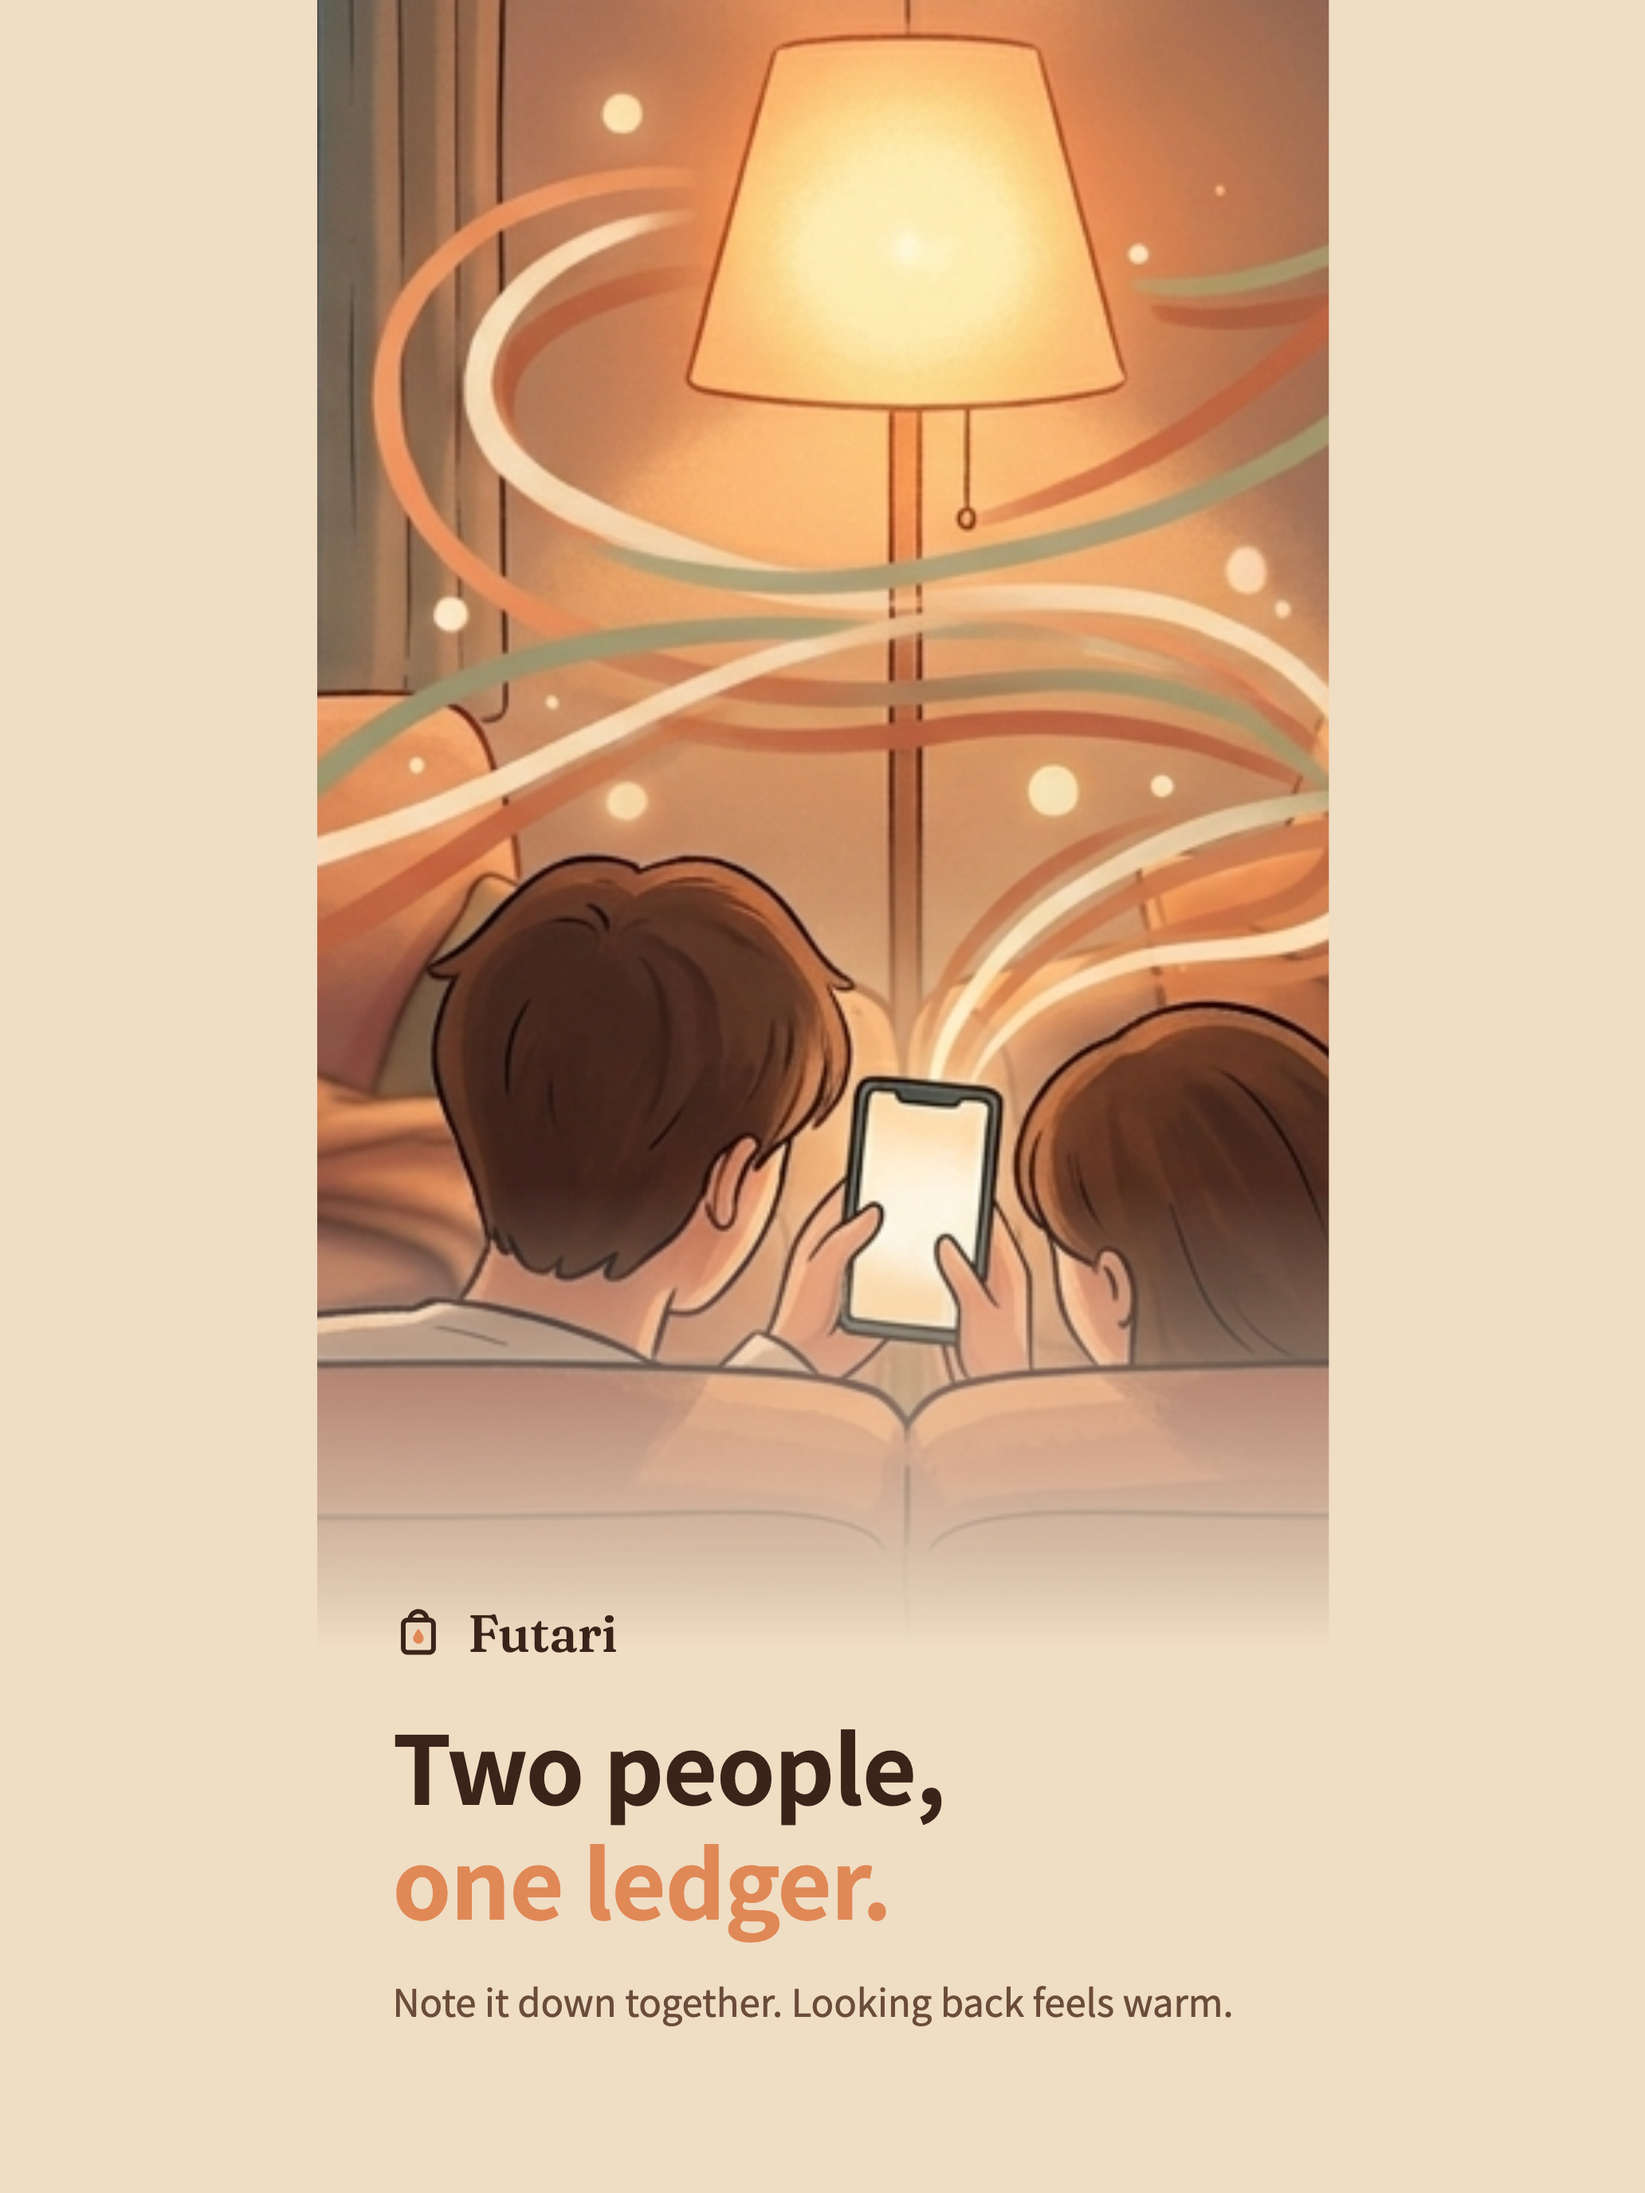
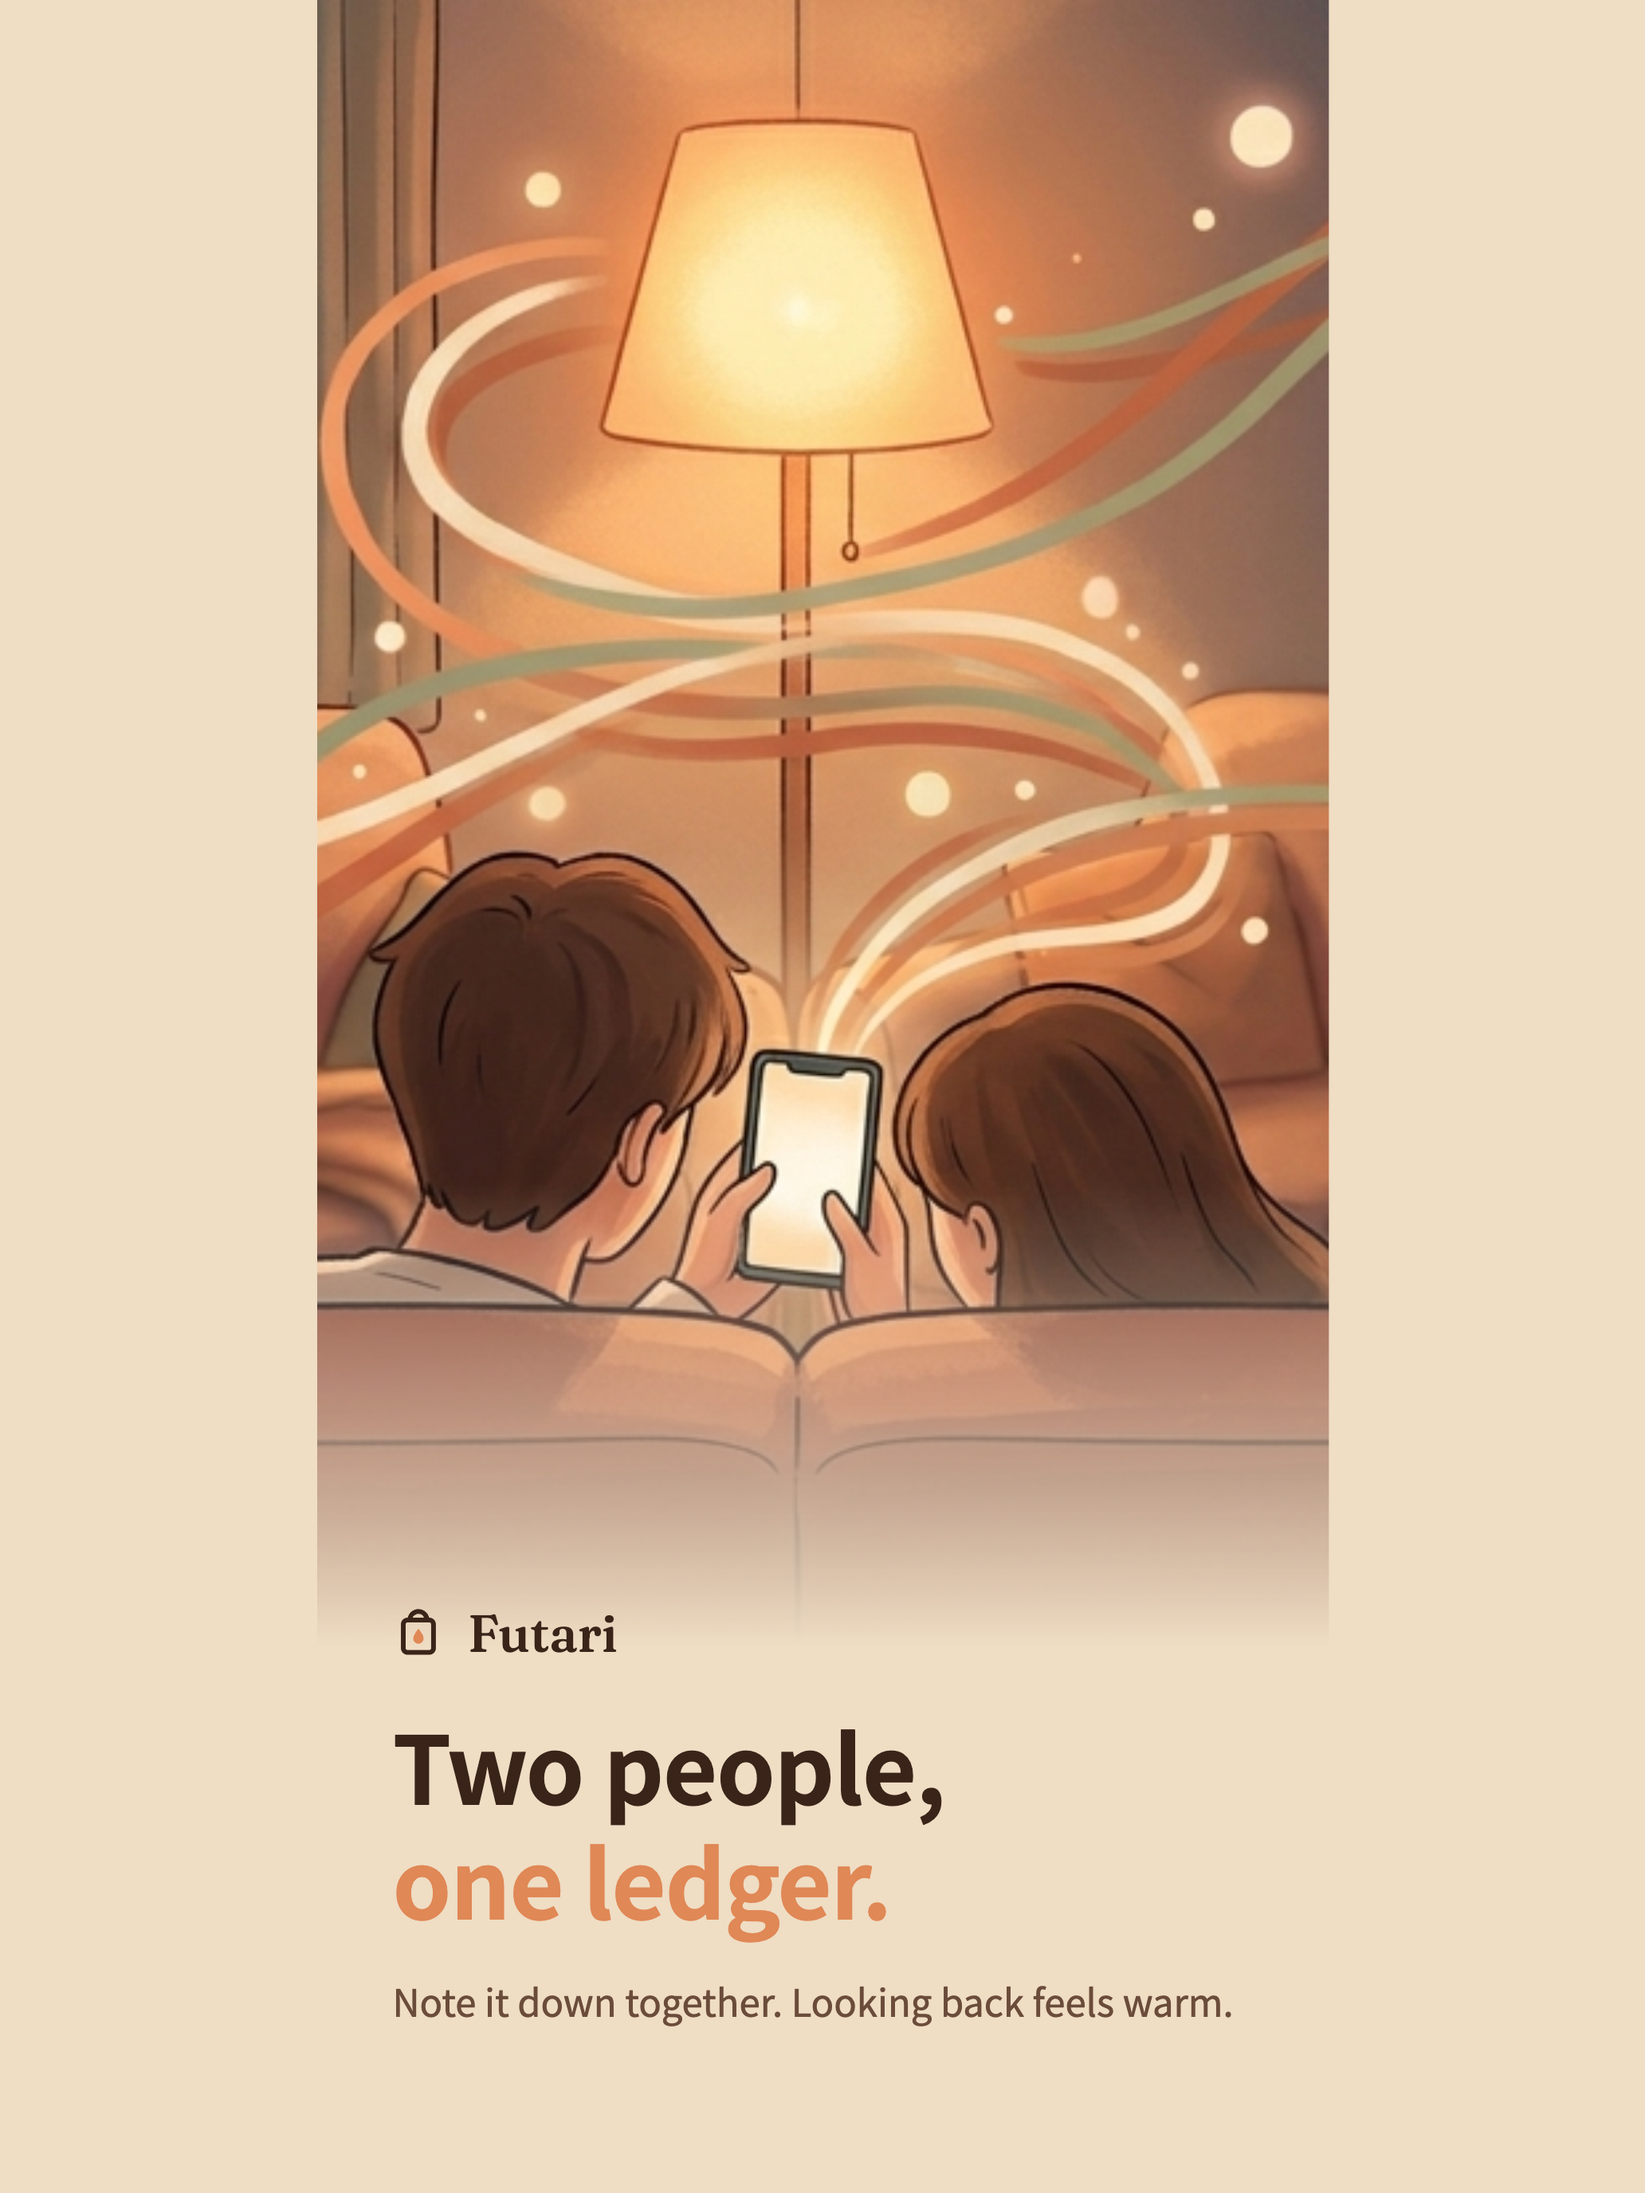
chore(store): 第 2 張品牌插畫照 #1854 的新裁切調整，兩個人的頭都完整（#1904，Ray 2026-11-03）
illustration-hero.png 在 #1854 改成 1170×620、沒有白框，原本放大 112% 會切到頭。
改成全高、水平置中在兩人之間；en、zh-CN、ja 的第 2 張（iPhone、iPad）重出。zh-TW 舊圖不動。

Changed region(s): [[0.186, 0.0, 0.8062, 0.6875]]

diff --git a/scripts/og/store-screens.html b/scripts/og/store-screens.html
@@ -62,11 +62,14 @@
               mask-image: linear-gradient(to bottom, #000 72%, transparent 100%);
     }
     .scene.hero {
-      /* illustration-hero.png carries its own white rounded frame; scale past
-       * it so no white edge shows at the top of the store frame. */
+      /* illustration-hero.png was re-cropped in #1854 (1170×620, no white
+       * frame any more), so it is no longer scaled past a frame: at full
+       * height the 430px window spans about 381 source px, and centred on
+       * x≈590 it holds both heads (≈420–760) whole (#1904, Ray 2026-11-03).
+       * The zh-TW story images on file predate #1854 and were not re-rendered. */
       height: 700px;
-      background-size: auto 112%;
-      background-position: 46% 50%;
+      background-size: auto 100%;
+      background-position: 50.6% 50%;
     }
 
     /* Placeholder until the illustration exists — deliberately not a
